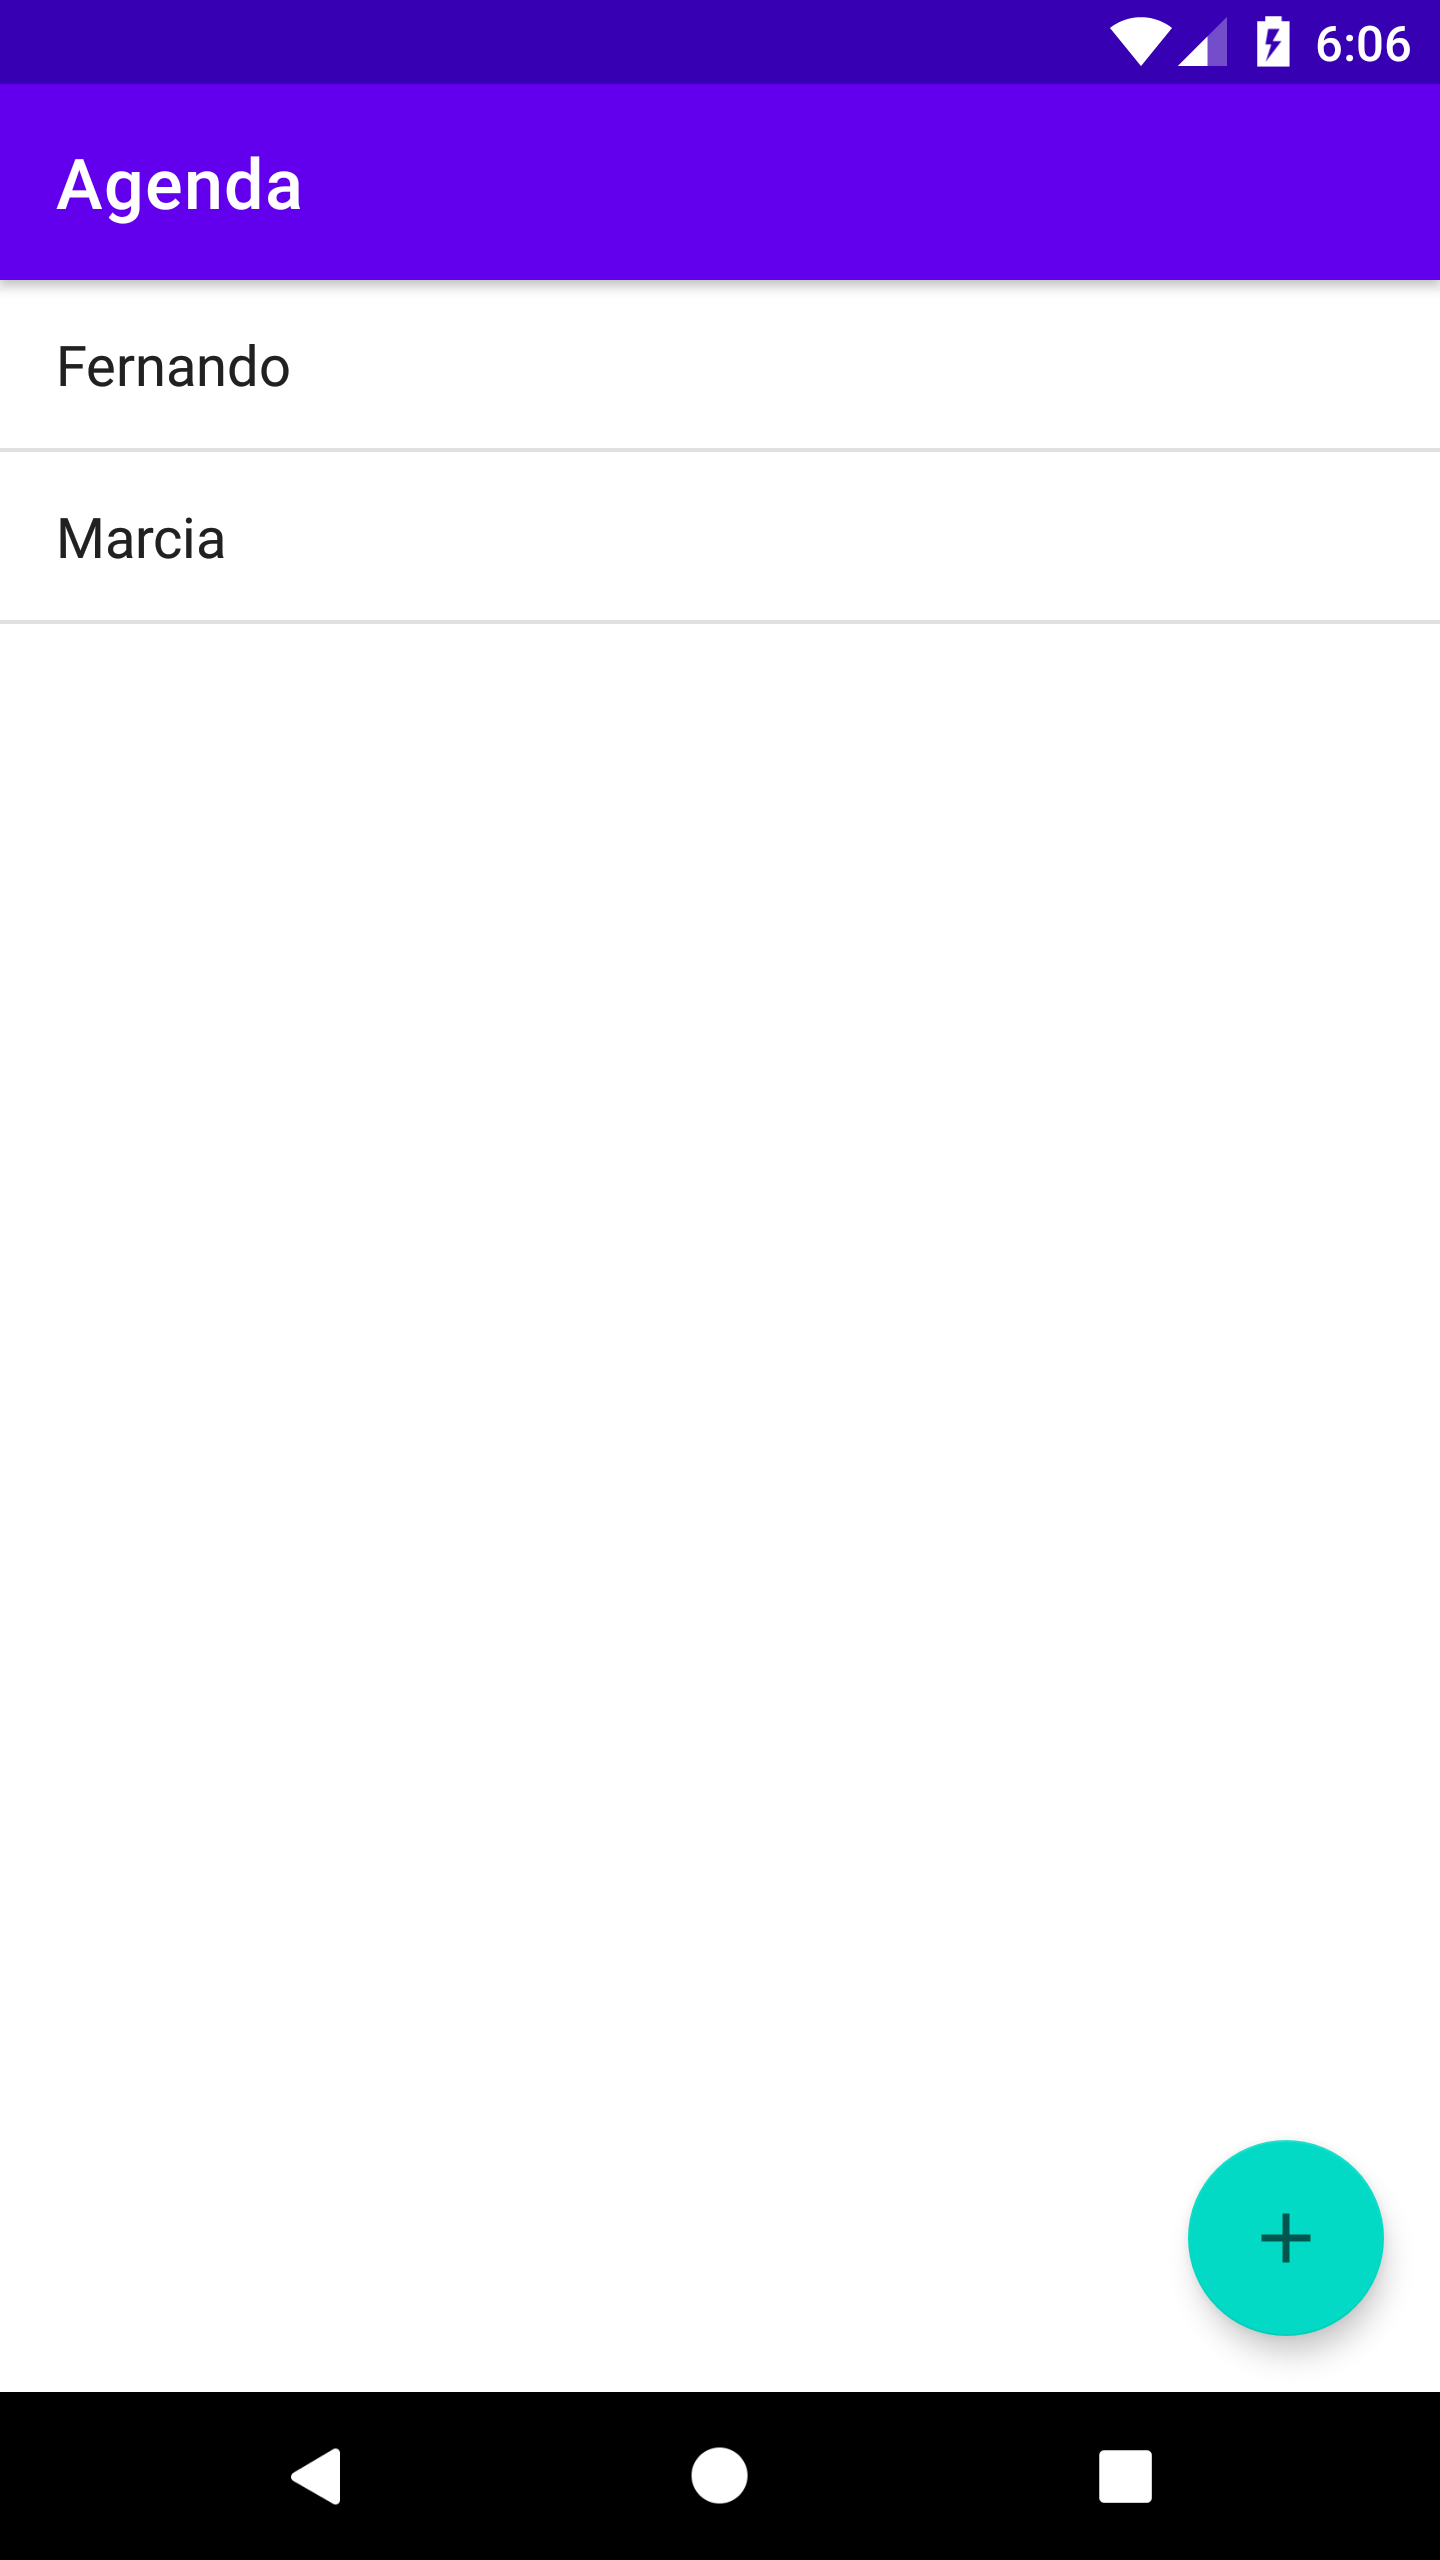
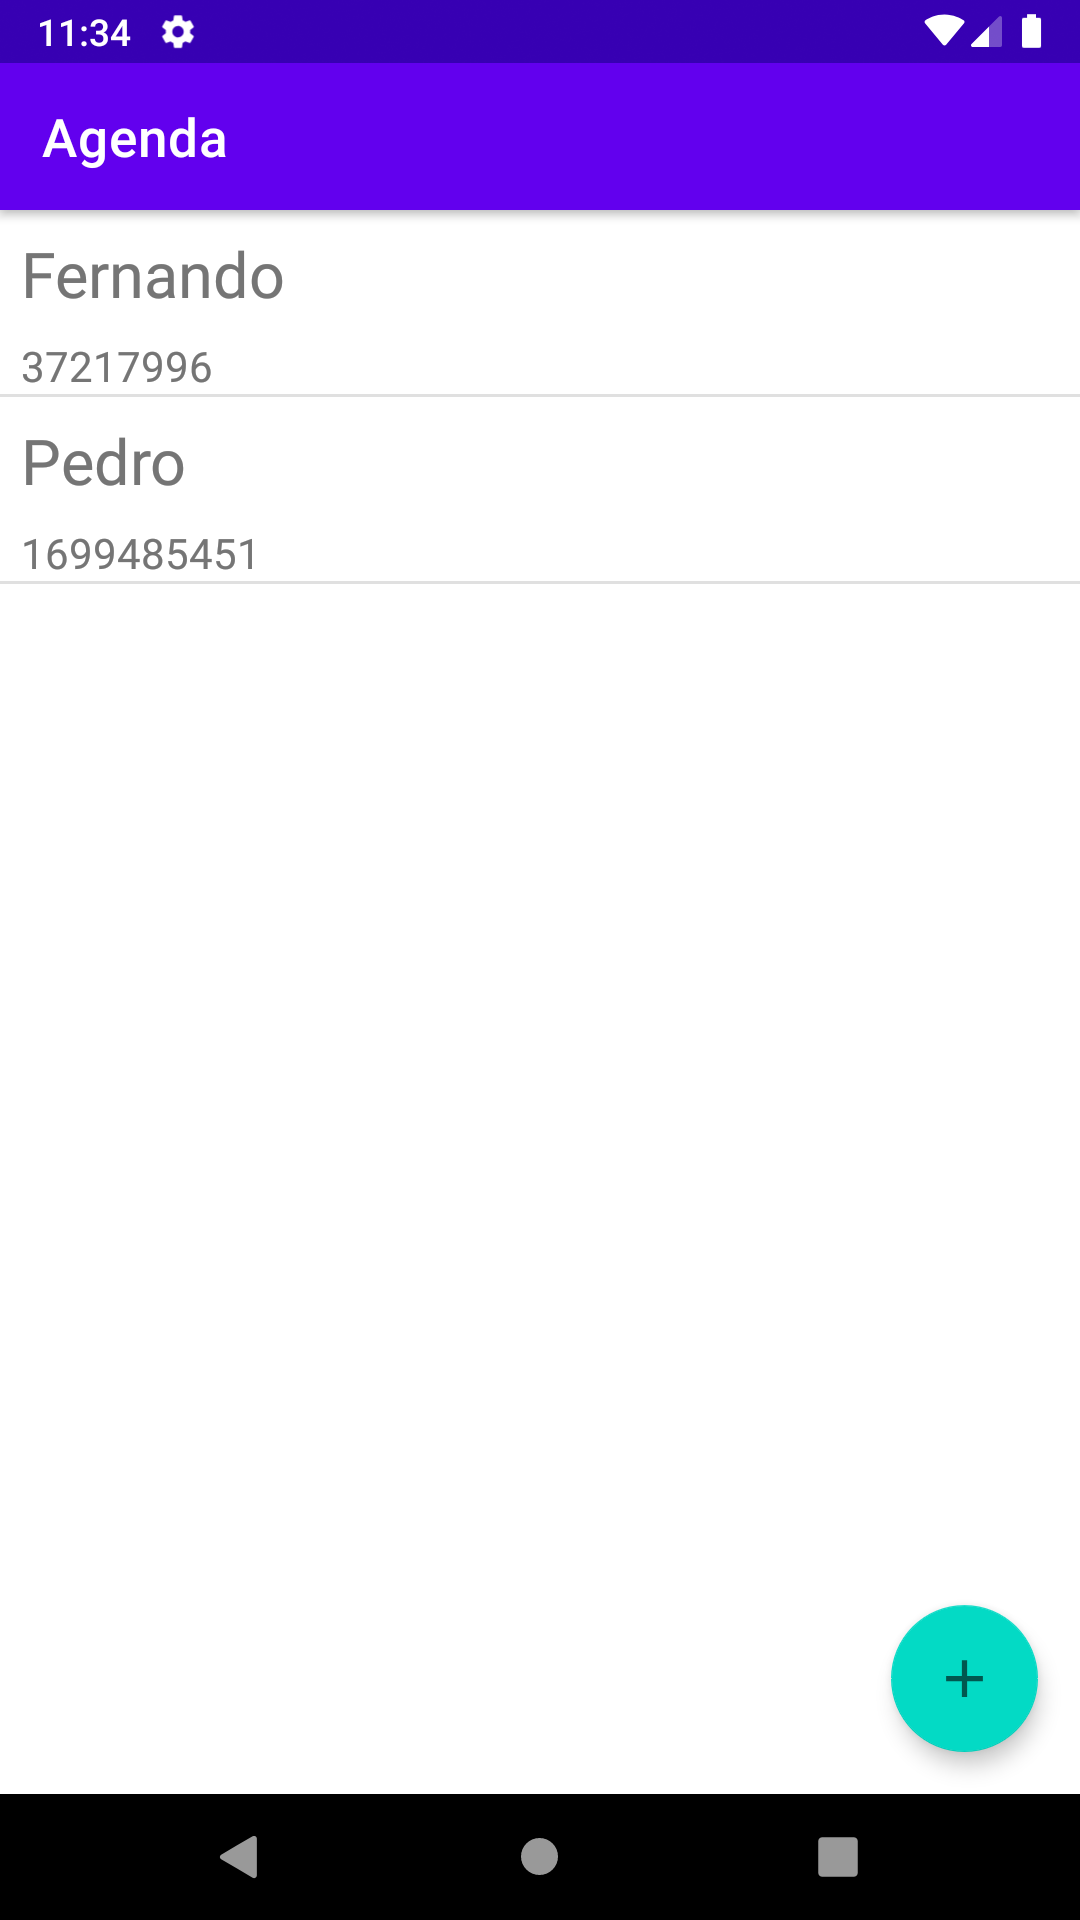
doc: update docs

diff --git a/app/src/main/java/br/com/dipaulamobilesolutions/agenda/ui/ListaAlunosView.java b/app/src/main/java/br/com/dipaulamobilesolutions/agenda/ui/ListaAlunosView.java
@@ -1,0 +1,60 @@
+package br.com.dipaulamobilesolutions.agenda.ui;
+
+import android.app.AlertDialog;
+import android.content.Context;
+import android.content.DialogInterface;
+import android.view.MenuItem;
+import android.widget.AdapterView;
+import android.widget.ListView;
+
+import br.com.dipaulamobilesolutions.agenda.dao.AlunoDAO;
+import br.com.dipaulamobilesolutions.agenda.model.activity.Aluno;
+import br.com.dipaulamobilesolutions.agenda.ui.adapter.ListaAlunosAdapter;
+
+public class ListaAlunosView {
+
+
+    private Context context;
+    private final AlunoDAO dao = new AlunoDAO();
+    private ListaAlunosAdapter adapter;
+
+    public ListaAlunosView(Context context){
+        this.context = context;
+
+    }
+
+    public void confirmaRemocao(MenuItem item) {
+        new AlertDialog
+                .Builder(context)
+                .setTitle("Removendo aluno")
+                .setMessage("Tem certeza que quer remover o aluno?")
+                .setPositiveButton("Sim", new DialogInterface.OnClickListener() {
+                    @Override
+                    public void onClick(DialogInterface dialogInterface, int i) {
+                        AdapterView.AdapterContextMenuInfo menuInfo =
+                                (AdapterView.AdapterContextMenuInfo) item.getMenuInfo();
+                        Aluno alunoEscolhido = adapter.getItem(menuInfo.position);
+                        remove(alunoEscolhido);
+                    }
+                })
+                .setNegativeButton("Não", null)
+                .show();
+    }
+
+
+
+    public void configuraAdapter(ListView listaDeAlunos) {
+        adapter = new ListaAlunosAdapter(context);
+        listaDeAlunos.setAdapter(adapter);
+    }
+
+    private void remove(Aluno aluno) {
+        dao.remove(aluno);
+        adapter.remove(aluno);
+    }
+
+    public void atualizaLista() {
+        adapter.atualiza(dao.todos());
+    }
+
+}

diff --git a/app/src/main/java/br/com/dipaulamobilesolutions/agenda/AgendaApplication.java b/app/src/main/java/br/com/dipaulamobilesolutions/agenda/AgendaApplication.java
@@ -1,0 +1,26 @@
+package br.com.dipaulamobilesolutions.agenda;
+
+import android.app.Application;
+
+import br.com.dipaulamobilesolutions.agenda.dao.AlunoDAO;
+import br.com.dipaulamobilesolutions.agenda.model.activity.Aluno;
+
+
+//para dados estaticos é necessário manter na camada da apĺicação que é o estado global!
+public class AgendaApplication extends Application {
+
+    private final AlunoDAO dao = new AlunoDAO();
+
+
+    @Override
+    public void onCreate() {
+        super.onCreate();
+        criaAlunosExemplo();
+    }
+
+    private void criaAlunosExemplo() {
+        dao.salva(new Aluno("Fernando", "16994153565", "454545@sdss"));
+        dao.salva(new Aluno("Fernando", "16994153565", "454545@sdss"));
+        dao.salva(new Aluno("Fernando", "16994153565", "454545@sdss"));
+    }
+}

diff --git a/README.md b/README.md
@@ -19,6 +19,7 @@
 <div style="display: flex">
 <img src="./.github/mobile1.png" width="250" />
 <img src="./.github/mobile2.png" width="250" />
+<img src="./.github/mobile3.png" width="250" />
 </div>
 
 ## :computer: Technologies
